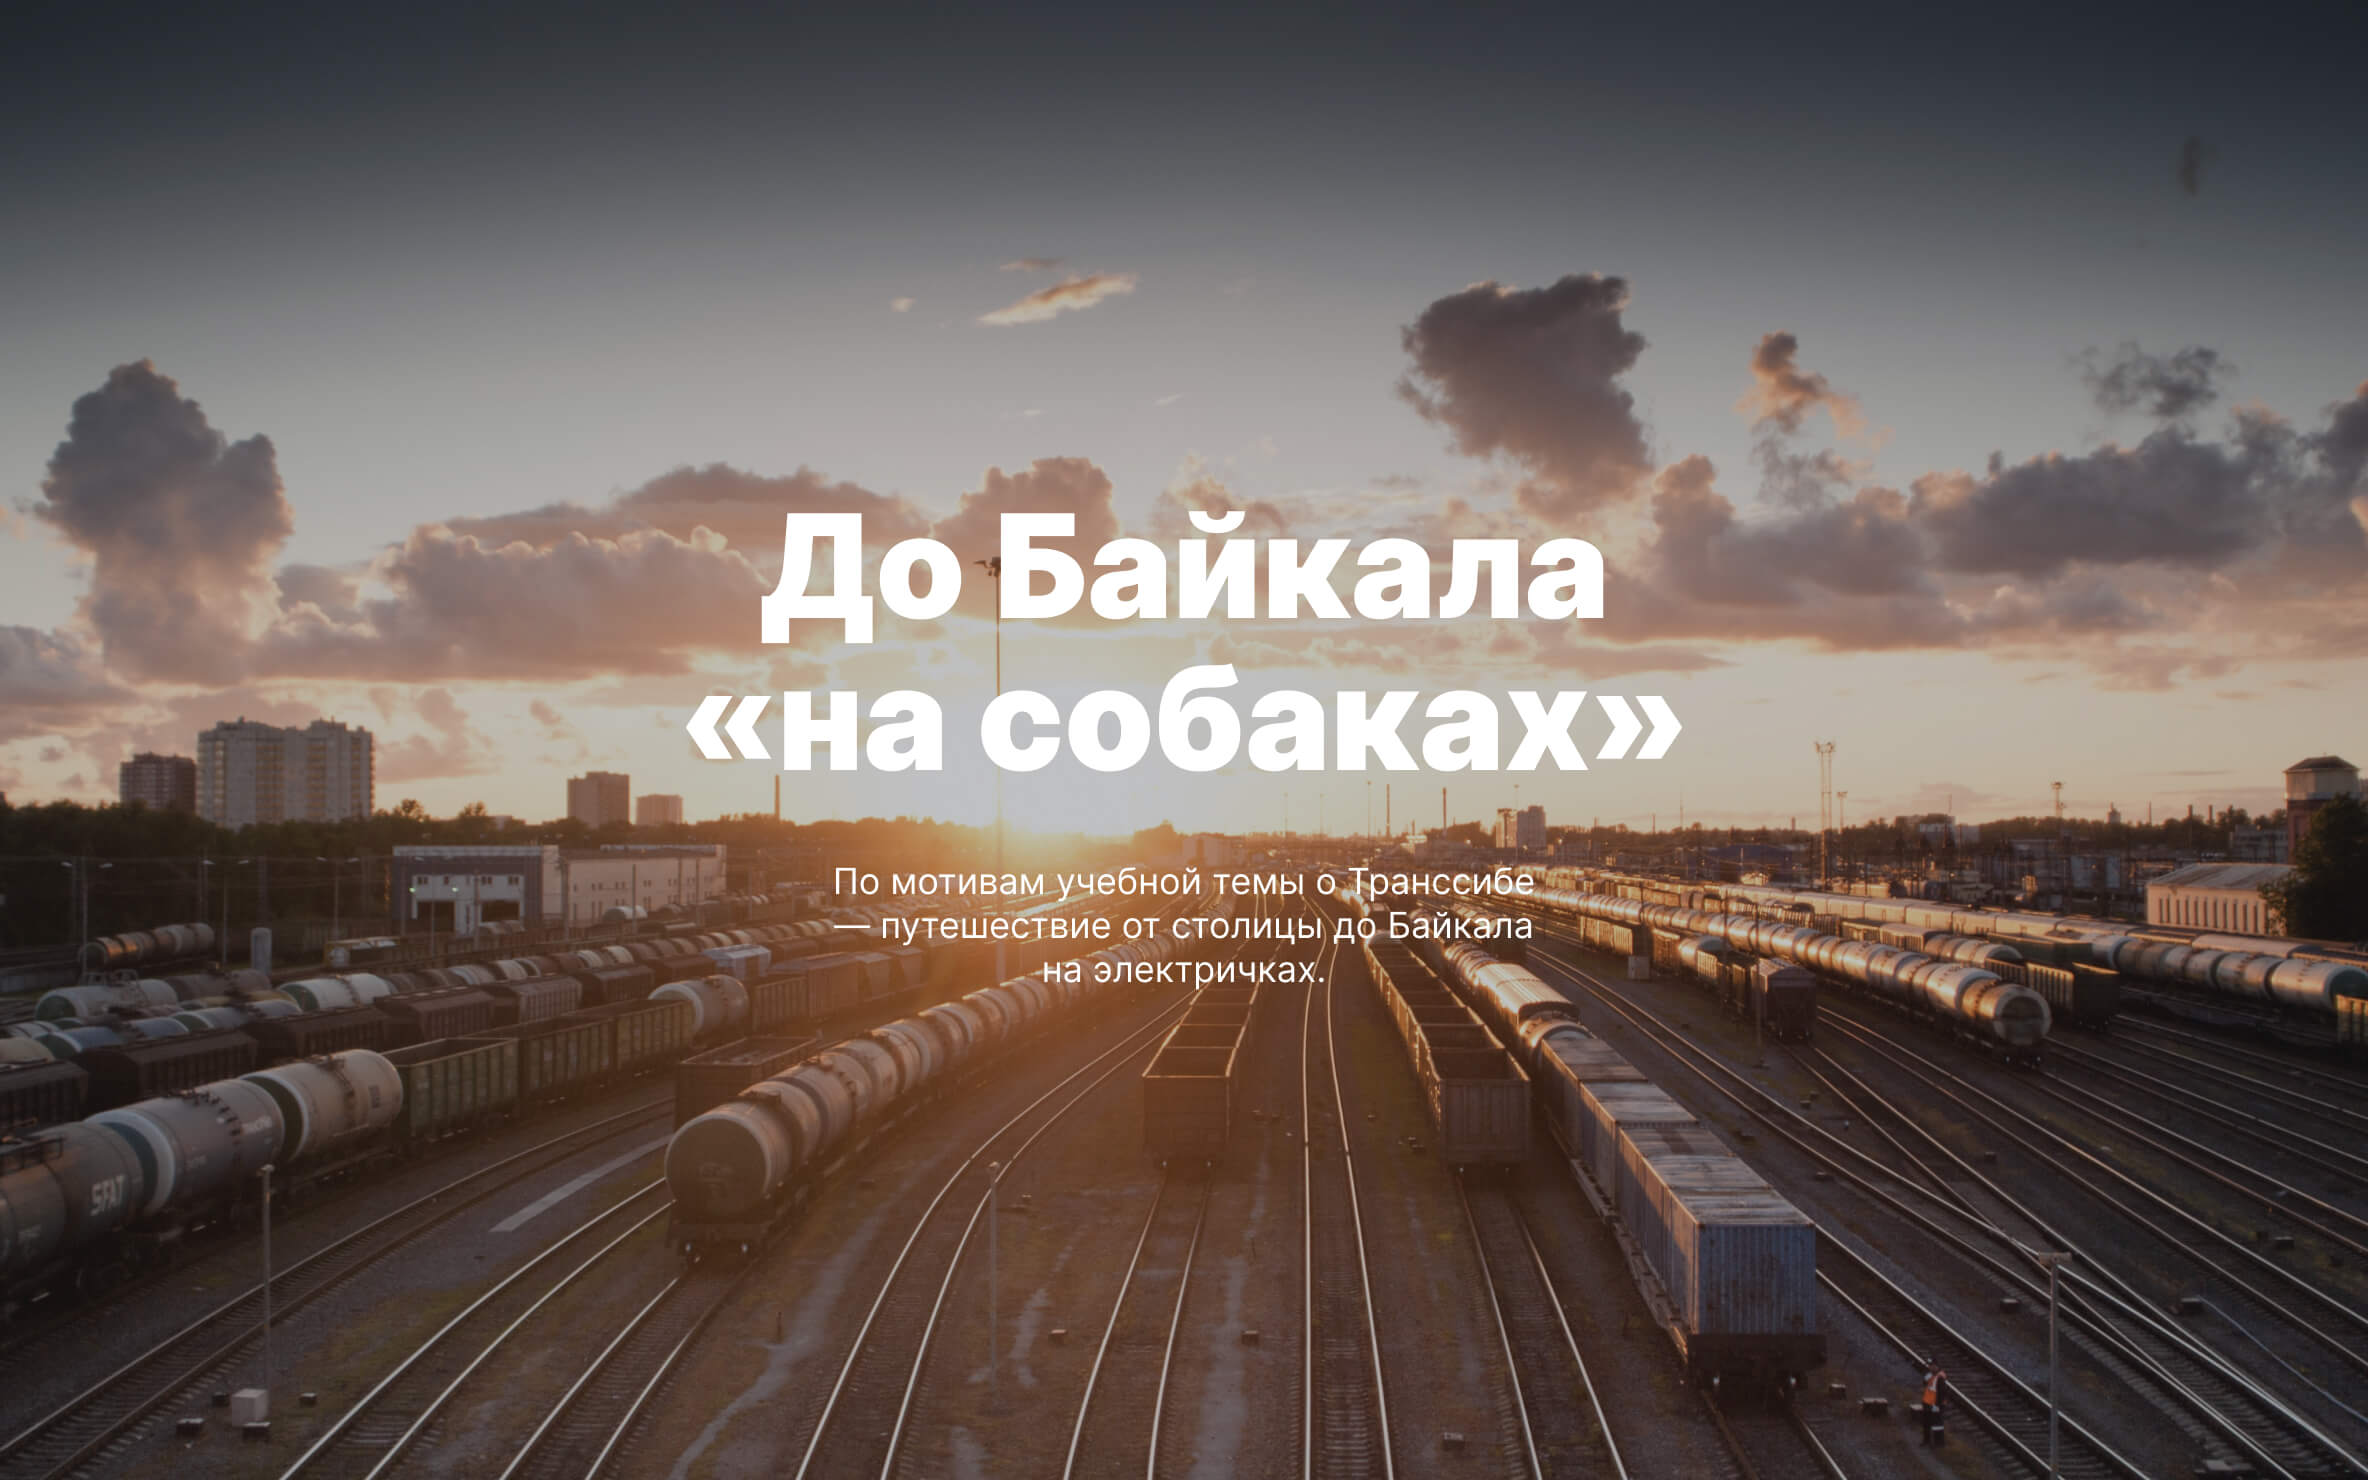
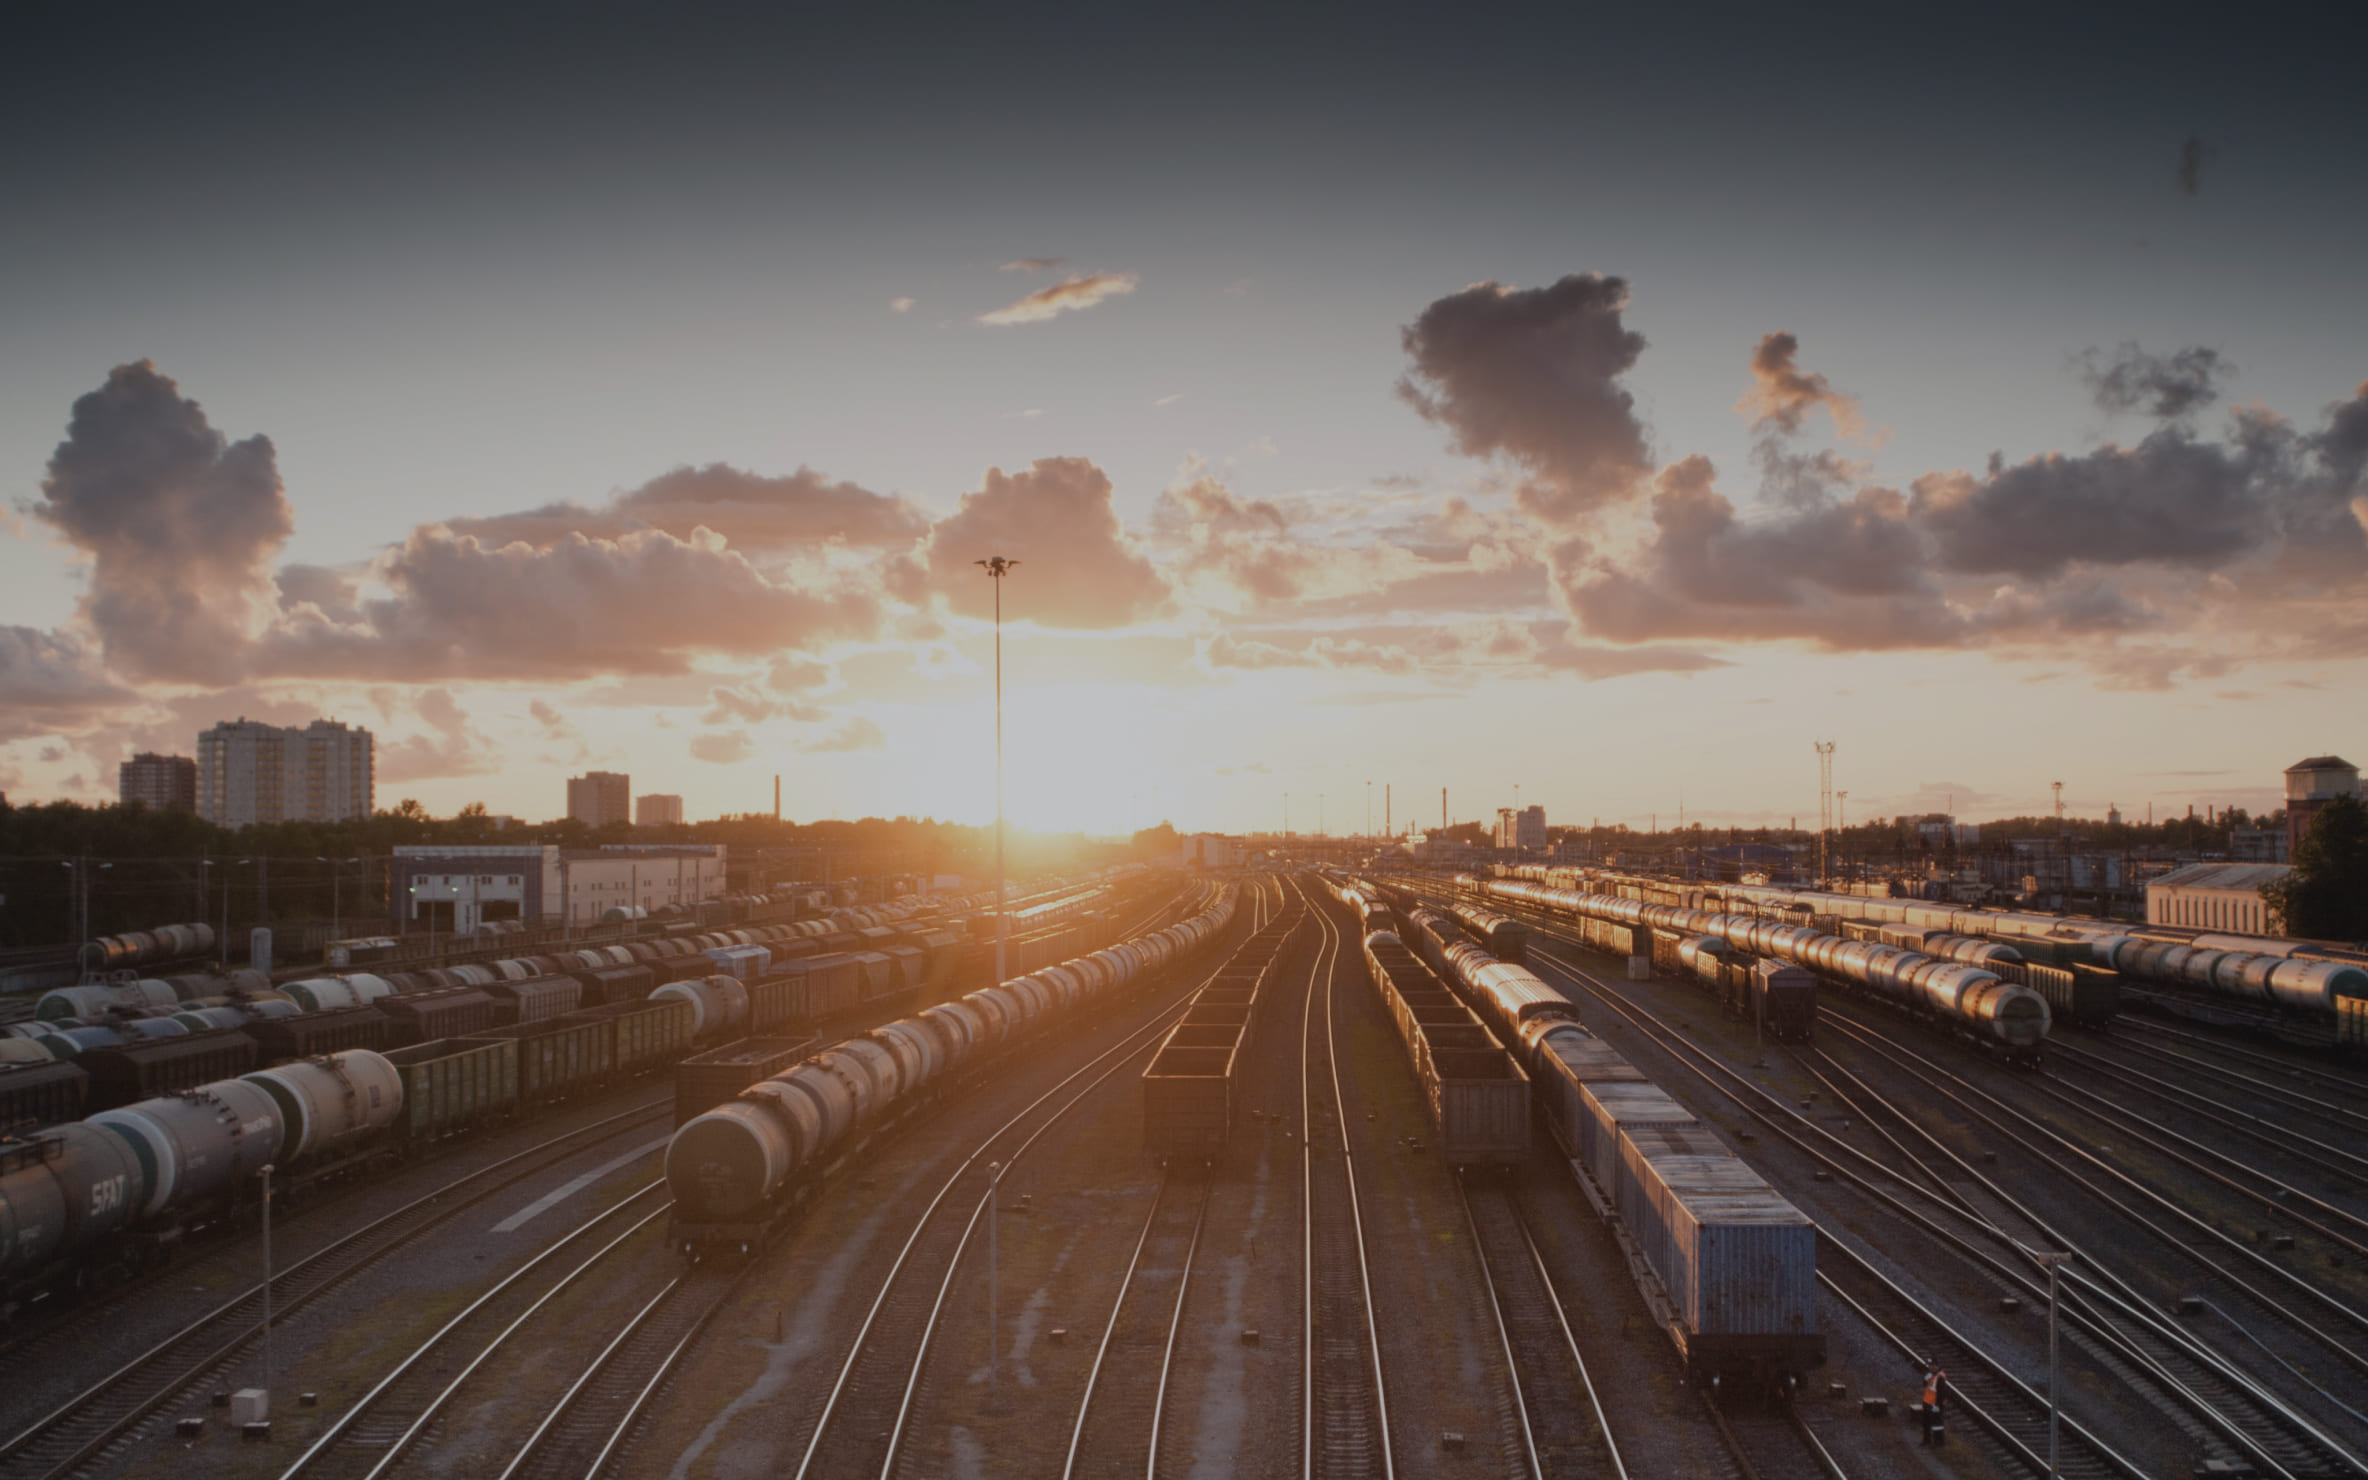
Добавление cover

Changed region(s): [[0.2812, 0.3419, 0.7188, 0.5284], [0.3438, 0.5905, 0.6562, 0.6838]]

diff --git a/index.html b/index.html
@@ -185,6 +185,18 @@
         </li>
       </ul>      
     </section>
+    <section class="cover">
+      <a class="cover__href" href="https://stampsy.com/na-elektrichkakh-do-baikala">
+        <div class="cover__container">
+          <div class="cover__text-container">
+            <h2 class="cover__title">До Байкала<br>«на собаках»</h2>
+            <p class="cover__subtitle">
+              По мотивам учебной темы о Транссибе — путешествие от столицы до Байкала на электричках.
+            </p>
+          </div>          
+        </div>
+      </a>
+    </section>
   </main>
 </body>
 </html>

diff --git a/pages/index.css b/pages/index.css
@@ -44,3 +44,11 @@
 @import url("../blocks/places/__list-item-paragraph/places__list-item-paragraph.css");
 @import url("../blocks/places/__list-item-href-text/places__list-item-href-text.css");
 @import url("../blocks/places/__list-item-BlockHref/places__list-item-BlockHref.css");
+
+/* cover */
+@import url("../blocks/cover/cover.css");
+@import url("../blocks/cover/__href/cover__href.css");
+@import url("../blocks/cover/__container/cover__container.css");
+@import url("../blocks/cover/__text-container/cover__text-container.css");
+@import url("../blocks/cover/__title/cover__title.css");
+@import url("../blocks/cover/__subtitle/cover__subtitle.css");

diff --git a/blocks/cover/__container/cover__container.css b/blocks/cover/__container/cover__container.css
@@ -1,0 +1,25 @@
+.cover__container {
+  position: relative;
+  width: 100%;
+  padding-top: calc(100% * 0.2);
+  padding-bottom: calc(100% * 0.2);
+}
+
+.cover__container::before {
+  content: '';
+  position: absolute;
+  top: 0;
+  left: 0;
+  background-image: url("../../../images/Railroad-station.jpg");
+  background-repeat: no-repeat;
+  background-position: center center;
+  background-size: cover;
+  z-index: 0;
+  height: 100%;
+  width: 100%;
+  transition: opacity .5s ease-in-out;
+}
+
+.cover__container:hover::before {
+  opacity: .8;
+}

diff --git a/blocks/cover/__title/cover__title.css b/blocks/cover/__title/cover__title.css
@@ -1,0 +1,19 @@
+.cover__title {
+  font-family: 'Inter';
+  font-style: normal;
+  font-weight: 900;
+  font-size: 32px;
+  line-height: 35px;
+  text-align: center;
+  color: #FFF;
+  margin-top: 0;
+  margin-bottom: 16px;
+}
+
+@media screen and (min-width: 768px) {
+  .cover__title {
+    font-size: 72px;
+    line-height: 76px;
+    margin-bottom: 32px;
+  }
+}

diff --git a/blocks/cover/__subtitle/cover__subtitle.css b/blocks/cover/__subtitle/cover__subtitle.css
@@ -1,0 +1,18 @@
+.cover__subtitle {
+  font-family: 'Inter';
+  font-style: normal;
+  font-weight: 400;
+  font-size: 14px;
+  line-height: 16px;
+  text-align: center;
+  color: #FFF;
+  margin-top: 0;
+  margin-bottom: 0;
+}
+
+@media screen and (min-width: 768px) {
+  .cover__subtitle {
+    font-size: 18px;
+    line-height: 22px;
+  }
+}

diff --git a/blocks/cover/cover.css b/blocks/cover/cover.css
@@ -1,0 +1,22 @@
+.cover {
+  padding-top: 66px;
+}
+
+@media screen and (min-width: 768px) {
+  .cover {
+    padding-top: 90px;
+  }
+}
+
+@media screen and (min-width: 992px) {
+  .cover {
+    padding-top: 92px;
+  }
+}
+
+@media screen and (min-width: 1200px) {
+  .cover {
+    padding-left: 5%;
+    padding-right: 5%;
+  }
+}

diff --git a/blocks/cover/__text-container/cover__text-container.css b/blocks/cover/__text-container/cover__text-container.css
@@ -1,0 +1,13 @@
+.cover__text-container {
+  width: 288px;
+  margin-left: auto;
+  margin-right: auto;
+  position: relative;
+  z-index: 2;
+}
+
+@media screen and (min-width: 768px) {
+  .cover__text-container {
+    width: 560px;
+  }
+}

diff --git a/blocks/cover/__href/cover__href.css b/blocks/cover/__href/cover__href.css
@@ -1,0 +1,4 @@
+.cover__href {
+  width: fit-content;
+  text-decoration: none;
+}
